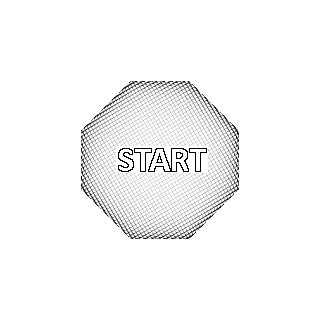
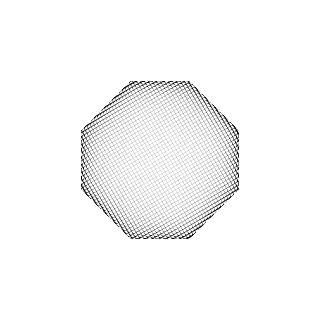
added a startup animation

Changed region(s): [[0.3438, 0.4375, 0.6562, 0.5625]]

diff --git a/src/components/simon/Simon.js b/src/components/simon/Simon.js
@@ -26,6 +26,11 @@ class Simon extends React.Component {
         light: 'yellowLight',
         status: false,
         sound: 3
+      },
+      {
+        light: 'whiteLight',
+        status: false,
+        sound: 4
       }
     ],
       arms: [{
@@ -45,39 +50,37 @@ class Simon extends React.Component {
       sequence: [],
       inputSequence: [],
       audio: [], 
-      inputReady: true
+      inputReady: false,
+      gameRunning: false
       
     }
 
     this.handleButtonPress = this.handleButtonPress.bind(this)
   }
 
-
+  intervalID;
   
   componentDidMount(){
     this.loadSounds(()=>{
-      setTimeout(()=>{
-        this.addToSequence(()=>{
-          this.playSequence()
-        },2000);
-      })
-      
+      this.resetGame();
     });  
     
     
   }
 
   handleButtonPress(color) {
-    if(this.state.inputReady){
-      const newSequence = Array.from(this.state.inputSequence);
-      const light = this.state.lights.findIndex((ele)=>{ return ele.light === color+'Light'})
-      newSequence.push(light);
-      this.turnLightOn(light)
+    const {inputReady, gameRunning, inputSequence, lights} = this.state;
+
+    if(gameRunning && inputReady){
+      const newSequence = Array.from(inputSequence);
+      const lightIndex = lights.findIndex((ele)=>{ return ele.light === color+'Light'})
+      newSequence.push(lightIndex);
+      this.turnLightOn(lightIndex)
+      console.log(newSequence)
       this.setState({
         inputSequence: newSequence
       }, ()=>{
         if(this.doesInputMatch()){
-          console.log(this.state.inputSequence.length === this.state.sequence.length);
           if(this.state.inputSequence.length === this.state.sequence.length){
             console.log("You are done guessing")
             this.setState({inputSequence: []});
@@ -85,24 +88,89 @@ class Simon extends React.Component {
             this.addToSequence(()=>{
             setTimeout(()=>{
               this.playSequence()
-              },1500);
+              },500);
             })
           }
         }else{
-          //gameOver
           console.log('Game Over')
           this.setState({
-            inputReady: false
+            inputReady: false,
+            gameRunning: false
           }, ()=>{
             this.closeAll();
+            setTimeout(()=>{
+              this.resetGame();
+            }, 1500);
+            
           })
         }
       })
-      
+    }else if(inputReady && !gameRunning && color === 'white'){
+      this.turnLightOff(4);
+      this.startUpAnimation(5, 50);
+    }
+  }
+
+  startGame(){
+    clearInterval(this.intervalID);
+    this.turnLightsOff();
+    this.setState({
+      inputReady: false,
+      gameRunning: true
+    }, ()=>{
+      this.addToSequence(()=>{
+        setTimeout(()=>{
+          this.playSequence()
+          },1500);
+        })
+    })
+  }
+
+  resetGame(){
+    this.setState({
+      inputReady: true,
+      inputSequence: [],
+      sequence: []
+    }, ()=>{
+      this.blinkLight([4]);
+    })
+  }
+
+  startUpAnimation(loops, speed=200, frame = 0){
+    clearInterval(this.intervalID)
+    if(loops > 0){
+      this.turnLightOn(frame, speed, false);
+      setTimeout(()=>{
+        frame++;
+        if(frame > 3){
+          frame = 0;
+          loops--;
+        }
+        this.startUpAnimation(loops, speed, frame);
+      }, speed)
+    }else{
+      this.blinkLight([0,1,2,3,4], 500);
+      setTimeout(()=>{
+        clearInterval(this.intervalID);
+        setTimeout(()=>{
+          this.startGame();
+        }, 1000)
+      }, 2000)
     }
     
-  
   }
+
+  blinkLight(lightArray, speed = 1000){
+    if(this.intervalID) clearInterval(this.intervalID);
+
+    this.intervalID = setInterval(()=>{
+      lightArray.forEach(light => {
+        this.turnLightOn(light, speed/2, false);
+      });  
+    }, speed);
+
+  }
+
   doesInputMatch(){
     const {inputSequence, sequence} = this.state;
     const length = inputSequence.length;
@@ -173,7 +241,7 @@ class Simon extends React.Component {
       
               
               this.playSequence(index);
-            }, 1000);
+            }, 500);
            
           }else{
             this.openAll();
@@ -191,7 +259,7 @@ class Simon extends React.Component {
           this.turnLightOff(sequence[index]);
           index++;
           this.playSequence(index);
-        }, 1000);
+        }, 500);
        
       }else{
         this.openAll();
@@ -237,17 +305,21 @@ class Simon extends React.Component {
   }
 
 
-turnLightOn(index){
+turnLightOn(index, duration = 200, playsound = true){
   const lights = Array.from(this.state.lights);
-  this.playSound(lights[index].sound);
+  if(playsound)
+    this.playSound(lights[index].sound);
   lights[index].status = true;
   this.setState({
     lights,
   });
 
-  setTimeout(()=>{
-    this.turnLightOff(index);
-  }, 500);
+  if(duration > 0){
+    setTimeout(()=>{
+      this.turnLightOff(index);
+    }, duration);
+  }
+  
 }
 
 turnLightOff(index){
@@ -259,13 +331,13 @@ turnLightOff(index){
 }
 
 turnLightsOff(){
-  for (let i = 0; i < this.game.lights.length; i++) {
+  for (let i = 0; i < this.state.lights.length; i++) {
     this.turnLightOff(i)
   }
 }
 
 turnLightsOn(){
-  for (let i = 0; i < this.game.lights.length; i++) {
+  for (let i = 0; i < this.state.lights.length; i++) {
     this.turnLightOn(i)
   }
 }
@@ -277,7 +349,7 @@ turnRandomLightOn(){
   render(){
     return (
       <div className="simon" id='simon'>
-          <SimonCenter position='center'/>
+          <SimonCenter position='center'color='white' lightOn={this.state.lights[4].status} clickHandle = {this.handleButtonPress}/>
           <SimonPart position='topLeft' color='green' lightOn={this.state.lights[0].status} open={this.state.arms[0].status} clickHandle = {this.handleButtonPress}/>
           <SimonPart position='topRight' color='red' lightOn={this.state.lights[1].status} open={this.state.arms[1].status} clickHandle = {this.handleButtonPress}/>
           <SimonPart position='btmRight' color='blue' lightOn={this.state.lights[2].status} open={this.state.arms[2].status} clickHandle = {this.handleButtonPress}/>

diff --git a/src/components/simonCenter/SimonCenter.js b/src/components/simonCenter/SimonCenter.js
@@ -1,14 +1,15 @@
 import React from 'react';
+import SimonLight from '../simonLight/SimonLight'
 import './style.css';
 
 function SimonCenter(props) {
 
   return (
     <div className={`simonCenter ${props.position}`} id={props.position}>
-      {/* <SimonLight color={props.color} lightOn={props.lightOn} clickHandle={props.clickHandle}/>
+      <SimonLight color={props.color} lightOn={props.lightOn} clickHandle={props.clickHandle}/>
       <button className="lightButton" onClick={()=>{
         props.clickHandle(props.color);
-      }}></button> */}
+      }}></button>
     </div>
   )
 }
